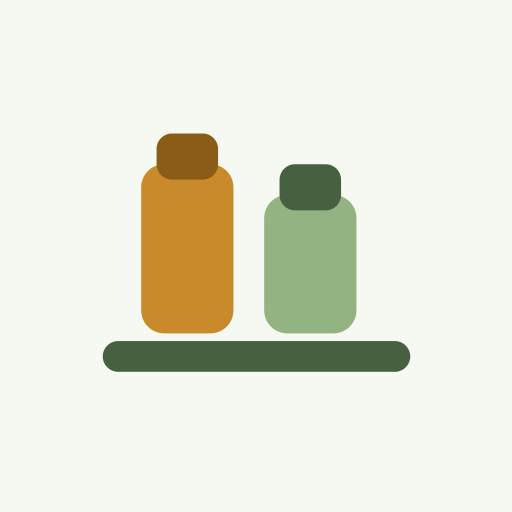
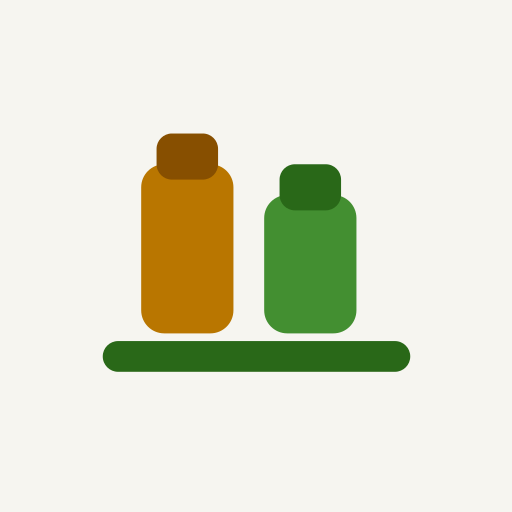
feat(design): new visual theme — vivid green, warm neutrals, Outfit + Figtree
Applies the Shelf redesign at the token level (frontend/src/index.css @theme +
:root/dark), so every screen re-themes without touching structure or logic:
- Warm neutral base (bg/surface/ink/muted/line) in OKLCH instead of the sage
  parchment, with matching dark-mode values.
- A single vivid green as the primary accent (hue 140), amber "expiring" (75)
  and clay "expired/delete" (35), each filled across the full 50–950 scale.
- Type: Outfit (display) + Figtree (body) via @fontsource, replacing Bricolage
  Grotesque + Karla.
- Slightly softer cards (--radius-2xl 18px). Favicon/PWA icons, theme-color and
  manifest colors regenerated to the new palette.

On a `redesign` branch for review before merging to develop.

Changed region(s): [[0.1875, 0.3125, 0.8125, 0.75]]

diff --git a/frontend/src/index.css b/frontend/src/index.css
@@ -1,12 +1,13 @@
 @import "tailwindcss";
 
-@import "@fontsource/bricolage-grotesque/600.css";
-@import "@fontsource/bricolage-grotesque/700.css";
-@import "@fontsource/bricolage-grotesque/800.css";
-@import "@fontsource/karla/400.css";
-@import "@fontsource/karla/500.css";
-@import "@fontsource/karla/600.css";
-@import "@fontsource/karla/700.css";
+@import "@fontsource/outfit/500.css";
+@import "@fontsource/outfit/600.css";
+@import "@fontsource/outfit/700.css";
+@import "@fontsource/outfit/800.css";
+@import "@fontsource/figtree/400.css";
+@import "@fontsource/figtree/500.css";
+@import "@fontsource/figtree/600.css";
+@import "@fontsource/figtree/700.css";
 
 /* iOS safe-area helpers: keep bottom-anchored UI (sheets, drawers, FAB, banner)
    clear of the home indicator / Safari bottom bar. Needs viewport-fit=cover. */
@@ -18,53 +19,53 @@
 }
 
 @theme {
-  /* Sage — herbs/pantry accent. 100/600/700 are the exact light-mode
-     reference values from the approved mockup (tint/base/deep); 400 is
-     the mockup's dark-mode "deep" (used for badge/pill text on dark). */
-  --color-primary-50: #f6f8f2;
-  --color-primary-100: #e1e9d7;
-  --color-primary-200: #cddcaf;
-  --color-primary-300: #a8c48a;
-  --color-primary-400: #c7dcb9;
-  --color-primary-500: #75965f;
-  --color-primary-600: #5c7a54;
-  --color-primary-700: #3f5738;
-  --color-primary-800: #33472c;
-  --color-primary-900: #26311f;
-  --color-primary-950: #161d10;
+  /* Green — the single vivid accent, reserved for the actions that matter.
+     Filled across the scale in OKLCH (hue 140). 600 is the primary action;
+     700 is text on a light tint; 400 is the light shade used for text on
+     dark tints (dark: variants); 900 is the dark tint background. */
+  --color-primary-50: oklch(97% 0.03 140);
+  --color-primary-100: oklch(94% 0.05 140);
+  --color-primary-200: oklch(90% 0.08 140);
+  --color-primary-300: oklch(85% 0.11 140);
+  --color-primary-400: oklch(80% 0.1 140);
+  --color-primary-500: oklch(68% 0.15 140);
+  --color-primary-600: oklch(58% 0.15 140);
+  --color-primary-700: oklch(46% 0.13 140);
+  --color-primary-800: oklch(38% 0.09 140);
+  --color-primary-900: oklch(30% 0.05 140);
+  --color-primary-950: oklch(22% 0.035 140);
 
-  /* Mustard — secondary accent used sparingly (illustrations, alternating
-     category chips), kept separate from the primary sage accent. Same
-     100/600/700/400 anchoring as primary, taken from the mockup. */
-  --color-mustard-50: #fbf5e9;
-  --color-mustard-100: #f5e6c6;
-  --color-mustard-200: #eccd92;
-  --color-mustard-300: #e0b166;
-  --color-mustard-400: #f2cf8f;
-  --color-mustard-500: #c98a2c;
-  --color-mustard-600: #c98a2c;
-  --color-mustard-700: #8a5c17;
-  --color-mustard-800: #6c4712;
-  --color-mustard-900: #33290f;
-  --color-mustard-950: #1f1808;
+  /* Amber — semantic "expiring soon" (hue 75). Replaces the old mustard. */
+  --color-mustard-50: oklch(97% 0.03 75);
+  --color-mustard-100: oklch(94% 0.05 75);
+  --color-mustard-200: oklch(90% 0.08 75);
+  --color-mustard-300: oklch(85% 0.11 75);
+  --color-mustard-400: oklch(82% 0.1 75);
+  --color-mustard-500: oklch(70% 0.14 75);
+  --color-mustard-600: oklch(62% 0.15 75);
+  --color-mustard-700: oklch(48% 0.13 75);
+  --color-mustard-800: oklch(40% 0.09 75);
+  --color-mustard-900: oklch(30% 0.05 75);
+  --color-mustard-950: oklch(22% 0.035 75);
 
-  /* Rust — semantic warning/danger, kept distinct from the accent hue so
-     "expiring" and "delete" never compete visually with the sage/mustard
-     brand colors. 600 is the mockup's single rust reference value. */
-  --color-rust-50: #fbf1ee;
-  --color-rust-100: #f2ddd5;
-  --color-rust-200: #e3bcac;
-  --color-rust-300: #d19980;
-  --color-rust-400: #dd8a72;
-  --color-rust-500: #a8442c;
-  --color-rust-600: #a8442c;
-  --color-rust-700: #8a3823;
-  --color-rust-800: #6b2b1a;
-  --color-rust-900: #3a2016;
-  --color-rust-950: #211210;
+  /* Clay — semantic "expired / delete" (hue 35). Replaces the old rust. */
+  --color-rust-50: oklch(96% 0.02 35);
+  --color-rust-100: oklch(92% 0.045 35);
+  --color-rust-200: oklch(87% 0.08 35);
+  --color-rust-300: oklch(84% 0.11 35);
+  --color-rust-400: oklch(80% 0.1 35);
+  --color-rust-500: oklch(62% 0.16 35);
+  --color-rust-600: oklch(55% 0.16 35);
+  --color-rust-700: oklch(45% 0.14 35);
+  --color-rust-800: oklch(38% 0.1 35);
+  --color-rust-900: oklch(28% 0.05 35);
+  --color-rust-950: oklch(20% 0.035 35);
 
-  --font-display: "Bricolage Grotesque", "Karla", system-ui, sans-serif;
-  --font-sans: "Karla", system-ui, sans-serif;
+  --font-display: "Outfit", system-ui, sans-serif;
+  --font-sans: "Figtree", system-ui, sans-serif;
+
+  /* Slightly softer card corners than the Tailwind default (16px → 18px). */
+  --radius-2xl: 1.125rem;
 
   /* Neutral surface tokens — the mockup's warm parchment background
      instead of stark white/black. These reference the custom properties
@@ -81,24 +82,24 @@
 
 :root {
   color-scheme: light dark;
-  --bg: #eef1e8;
-  --surface: #fbfbf6;
-  --surface-2: #f1f4ea;
-  --ink: #2a2b21;
-  --muted: #6c705f;
-  --line: #dee2d3;
-  --on-photo: rgba(251, 251, 246, 0.9);
+  --bg: oklch(97% 0.007 95);
+  --surface: oklch(99.3% 0.003 95);
+  --surface-2: oklch(94.8% 0.01 95);
+  --ink: oklch(24% 0.015 95);
+  --muted: oklch(52% 0.014 95);
+  --line: oklch(89% 0.009 95);
+  --on-photo: oklch(99.3% 0.003 95 / 0.9);
 }
 
 @media (prefers-color-scheme: dark) {
   :root {
-    --bg: #1a1c15;
-    --surface: #232519;
-    --surface-2: #2a2c1e;
-    --ink: #ecefe1;
-    --muted: #a3a68f;
-    --line: #363928;
-    --on-photo: rgba(35, 37, 25, 0.82);
+    --bg: oklch(19% 0.012 95);
+    --surface: oklch(23% 0.013 95);
+    --surface-2: oklch(27% 0.014 95);
+    --ink: oklch(94% 0.01 95);
+    --muted: oklch(68% 0.014 95);
+    --line: oklch(33% 0.014 95);
+    --on-photo: oklch(23% 0.013 95 / 0.82);
   }
 }
 

diff --git a/frontend/index.html b/frontend/index.html
@@ -4,7 +4,7 @@
     <meta charset="UTF-8" />
     <link rel="icon" type="image/svg+xml" href="/favicon.svg" />
     <link rel="apple-touch-icon" href="/apple-touch-icon.png" />
-    <meta name="theme-color" content="#5c7a54" />
+    <meta name="theme-color" content="#438f31" />
     <meta name="viewport" content="width=device-width, initial-scale=1.0, viewport-fit=cover" />
     <title>Shelf</title>
   </head>

diff --git a/frontend/vite.config.ts b/frontend/vite.config.ts
@@ -16,8 +16,8 @@ export default defineConfig({
         short_name: 'Shelf',
         description: 'Sua cozinha organizada, do estoque à receita.',
         lang: 'pt-BR',
-        theme_color: '#5c7a54',
-        background_color: '#f6f8f2',
+        theme_color: '#438f31',
+        background_color: '#f6f5f0',
         display: 'standalone',
         start_url: '/',
         icons: [
